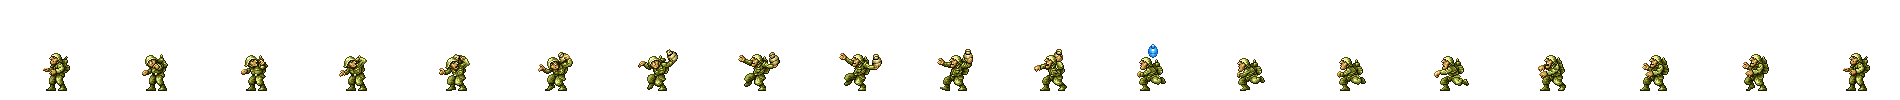
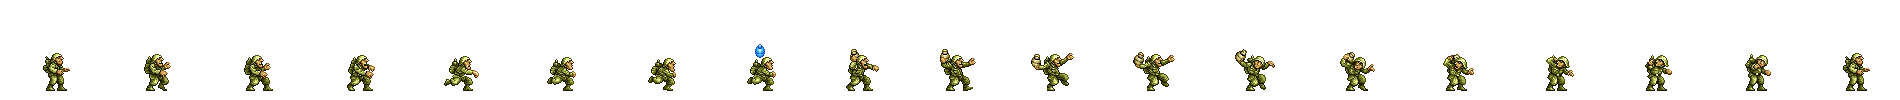
devil

diff --git a/static/js/Base.js b/static/js/Base.js
@@ -18,10 +18,11 @@ Base.prototype.addSprite = function(sprite){
 	var self = this;
 	sprite.ctx = self.ctx;
 	self.ctx.beginPath();
-	sprite._content();
+	sprite.content(sprite);
 	self.ctx.closePath();
 	return self;
 }
+
 
 //-----------------------------------精灵事件
 Base.prototype.on = function(type,FUN){
@@ -38,7 +39,66 @@ Base.prototype.off = function(type,sprite){
 
 
 //------------------------------------属性
-
+//图片获取X定位
+Base.prototype.sx = function(num){
+	var self = this;
+	if(num){
+		self._sx = num;
+		return self;
+	}else{
+		return self._sx
+	}
+}
+//图片获取Y定位
+Base.prototype.sy = function(num){
+	var self = this;
+	if(num){
+		self._sy = num;
+		return self;
+	}else{
+		return self._sy
+	}
+}
+//图片获取宽度
+Base.prototype.swidth = function(num){
+	var self = this;
+	if(num){
+		self._swidth = num;
+		return self;
+	}else{
+		return self._swidth
+	}
+}
+//图片获取高度
+Base.prototype.sheight = function(num){
+	var self = this;
+	if(num){
+		self._sheight = num;
+		return self;
+	}else{
+		return self._sheight
+	}
+}
+//x
+Base.prototype.x = function(num){
+	var self = this;
+	if(num){
+		self._x = num;
+		return self;
+	}else{
+		return self._x
+	}
+}
+//y
+Base.prototype.y = function(num){
+	var self = this;
+	if(num){
+		self._y = num;
+		return self;
+	}else{
+		return self._y
+	}
+}
 //宽度
 Base.prototype.width = function(num){
 	var self = this;
@@ -60,27 +120,6 @@ Base.prototype.height = function(num){
 	}
 }
 
-//x
-Base.prototype.x = function(num){
-	var self = this;
-	if(num){
-		self._x = num;
-		return self;
-	}else{
-		return self._x
-	}
-}
-//y
-Base.prototype.y = function(num){
-	var self = this;
-	if(num){
-		self._y = num;
-		return self;
-	}else{
-		return self._y
-	}
-}
-
 //------------------------------------宽高
 //精灵dom
 Base.prototype.dom = function(dom){
@@ -93,13 +132,21 @@ Base.prototype.dom = function(dom){
 	}
 }
 
-//----------------------------------------------------------------------
+//--------------------------------------------精灵方法
 
 //图片写入
-Base.prototype.drawImage = function(div){
+Base.prototype.drawImage = function(D){
 	var self = this;
-	var sprite = div || self;
-	self.ctx.drawImage(sprite.dom,sprite.x(),sprite.y(),sprite.width(),sprite.height());
+	var D = D ||　self;
+	if(D._sx && D._sy && D._swidth && D._sheight && D._x && D._y && D._width && D._height){
+		self.ctx.drawImage(D.dom,D._sx,D._sy,D._swidth,D._sheight,D._x,D._y,D._width,D._height);	
+		return self;
+	}
+	if(D._x && D._y && D._width && D._height){
+		self.ctx.drawImage(D.dom,D._x,D._y,D._width,D._height);	
+		return self;
+	}
+	self.ctx.drawImage(D.dom,D._x,D._y);
 	return self;
 }
 

diff --git a/index.html b/index.html
@@ -40,7 +40,9 @@
 	loadingDiv,
 	readyDiv,
 	mainDiv,
-	imageJson;
+	imageJson,
+	list=0,
+	listCol=19;
 	
 	
 	//创建一个总画布
@@ -145,17 +147,25 @@
 		var ball = new Sprite("ball");
 		
 		//精灵
+		
+		list = dyadicArray(1900,100,1,19);
+		listCol--;
+		listCol = listCol<=0 ? 18 : listCol;
+		//console.log(list[0][listCol].x,list[0][listCol].y)
 		you
 			.dom(imageJson.you)
-			.width(imageJson.you.width)
-			.height(imageJson.you.height)
+			.sx(list[0][listCol].x+1)
+			.sy(list[0][listCol].y+1)
+			.swidth(100)
+			.sheight(100)
 			.x(10)
 			.y(200)
+			.width(100)
+			.height(100)
 			.content(function(){
 				this.drawImage();
-			});	
+			})
 			
-		var list = 
 		sister
 			.dom(imageJson.sister)
 			.width(imageJson.sister.width)
@@ -174,7 +184,7 @@
 			.y(10)
 			.content(function(){
 				this.drawImage();
-			})	
+			})
 		
 		//层绘制
 		mainDiv
@@ -187,6 +197,11 @@
 		body
 			.clearRect()
 			.drawImage(mainDiv);
+		setTimeout(gameStar,100)
+	}
+	
+	function gameUp(){
+		requestAnimationFrame(gameUp)
 	}
 	
 	

diff --git a/test.html b/test.html
@@ -29,6 +29,13 @@
 		}
 	}
 	b.prototype = new a();
+	b.prototype.content = function(FUN){
+		if(FUN){
+			this.content = FUN;
+		}
+	}
+	
+	
 	//b.prototype.constructor = b;
 	b.prototype.nameaaa = function(){
 		return this.namea;
@@ -39,11 +46,15 @@
 	
 	var c = new b();
 	c.namec = "ccc";
-	console.dir(a)
-	console.dir(b)
-	console.dir(c)
+	c.content(function(){
+		return 3455;
+	})
+	
+	//console.dir(a)
+	//console.dir(b)
+	//console.dir(c)
 	console.log("----------------------")
-	console.dir(c.nameaaaa())
+	console.log(c.content())
 	console.log("----------------------")
 	
 </script>

diff --git a/static/js/bump.js b/static/js/bump.js
@@ -9,7 +9,7 @@ function mouseToSprite(event,sprite){
 		y1 = sprite.y(),
 		x2 = sprite.x() + sprite.width(),
 		y2 = sprite.y() + sprite.height();
-	console.log(x,y,x1,y1,x2,y2)
+	//console.log(x,y,x1,y1,x2,y2)
 	return (x1<x && x<x2)&&(y1<y&&y<y2);
 }
 /*

diff --git a/static/js/Sprite.js b/static/js/Sprite.js
@@ -14,7 +14,7 @@ function Sprite(name){
 Sprite.prototype = new Base();
 //精灵自身绘画方法
 Sprite.prototype.content = function(FUN){
-	this._content = FUN;
+	this.content = FUN;
 }
 
 
